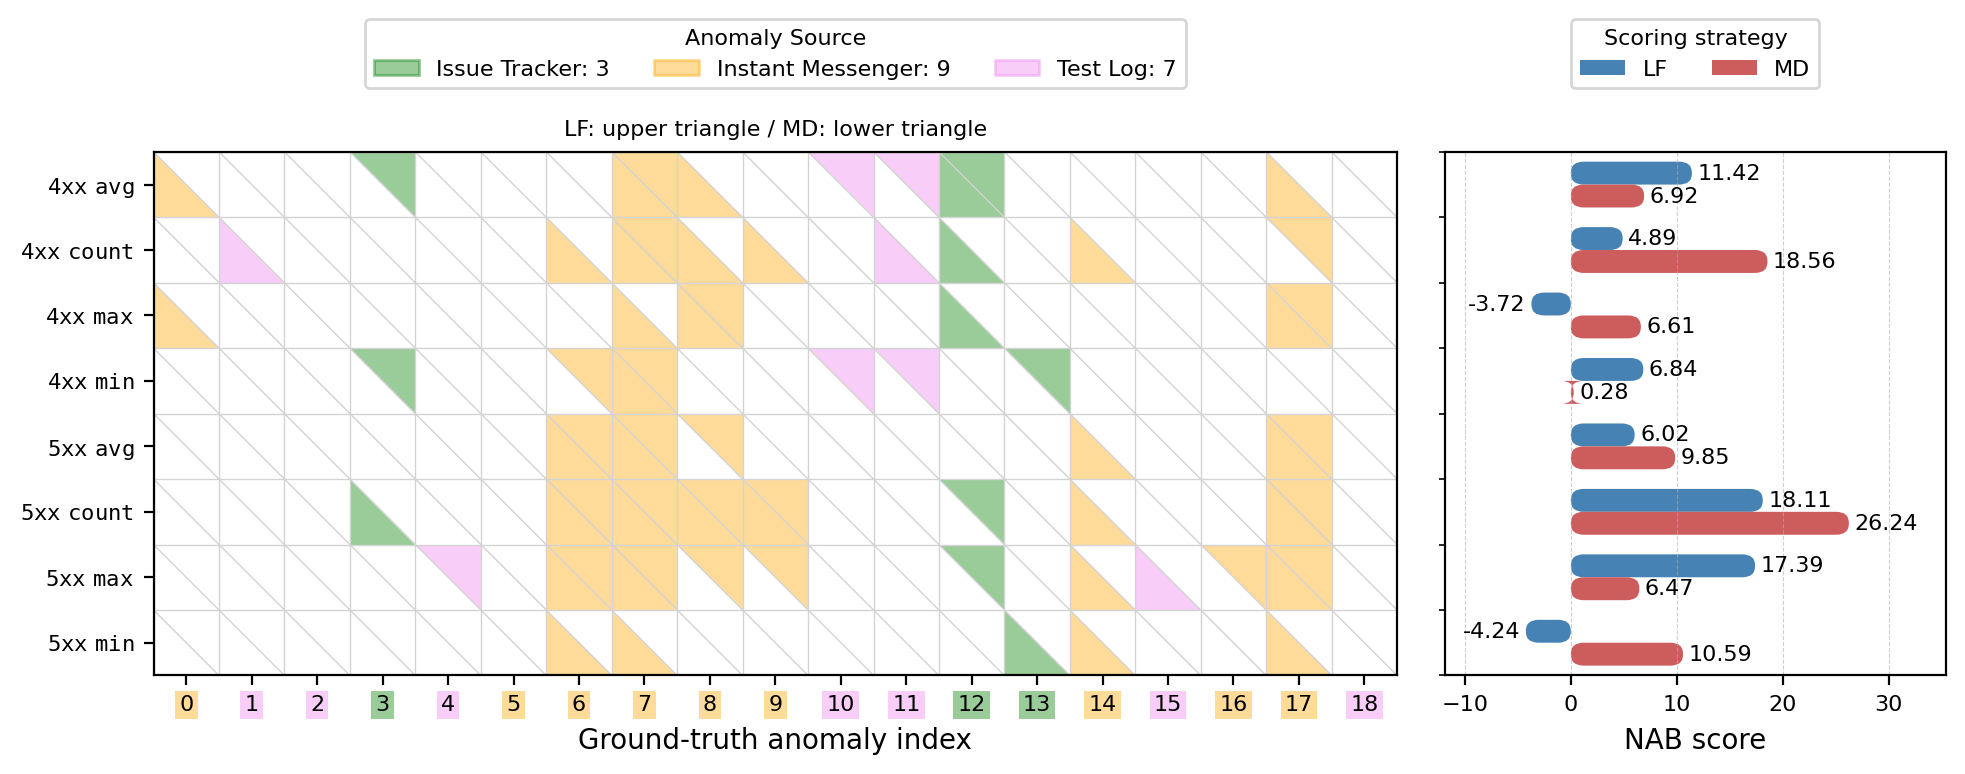
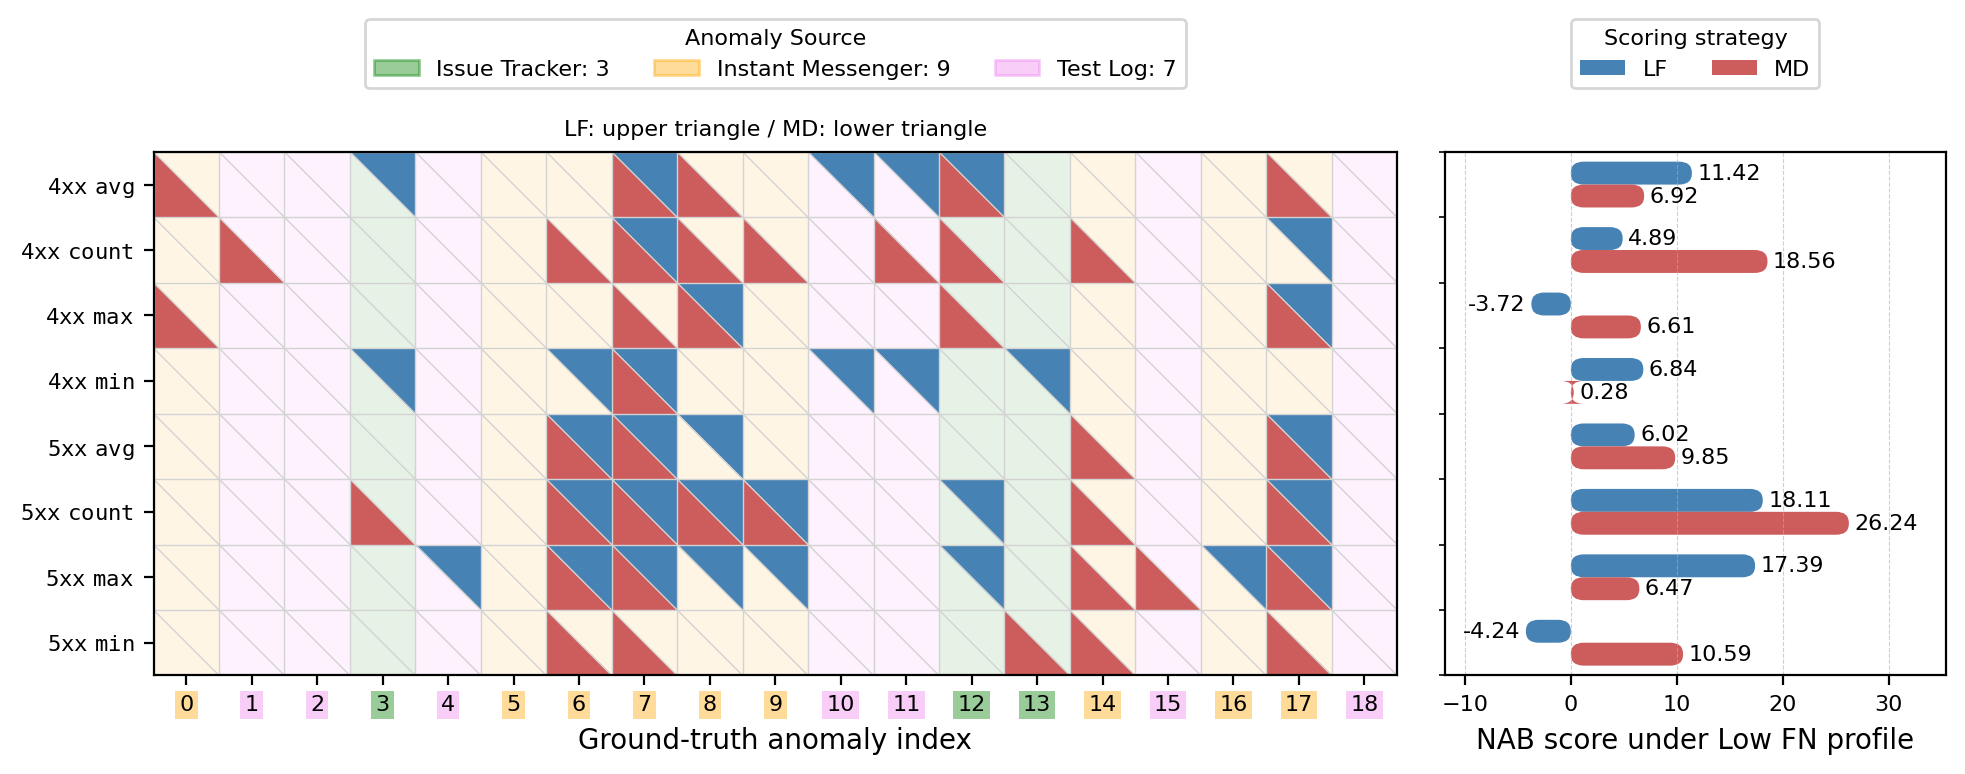
update slurm scripts

Changed region(s): [[0.0621, 0.186, 0.683, 0.8682], [0.745, 0.9302, 0.9934, 0.9922]]

diff --git a/src/analysis_results.py b/src/analysis_results.py
@@ -27,7 +27,7 @@ SCORING_STRATEGY_DISPLAY_NAME_MAP = {
 
 NAB_PROFILE_DISPLAY_NAME_MAP = {
     'standard': 'Standard',
-    'reward_fn': 'Reward FN',
+    'reward_fn': 'Low FN',
 }
 
 # Hue (in colorsys HLS space, [0, 1]) assigned to each model family's color
@@ -1016,6 +1016,16 @@ def _detected_group_color(detection_counters, anomaly_id, undetected_color):
     return np.array(undetected_color)
 
 
+def _is_anomaly_detected(detection_counters, anomaly_id):
+    return any(anomaly_id in detection_counters.get(group_key, []) for group_key in ANOMALY_GROUP_ID_KEYS)
+
+
+def _blended_group_background(group_key, undetected_color):
+    group_color = to_rgb(ANOMALY_GROUP_COLOR_MAP[group_key])
+    return np.array(group_color) * ANOMALY_GROUP_OPACITY + \
+           np.array(undetected_color) * (1 - ANOMALY_GROUP_OPACITY)
+
+
 def plot_table_of_detected_anomalies(
         optimal_hyperparameters_df, results_dir, sliding_window, nab_profile,
         is_one_column_figure=False,
@@ -1291,35 +1301,49 @@ def plot_nab_score_of_optimal_configuration(
 
 
 def plot_table_and_nab_score_together(
-        optimal_hyperparameters_df, results_dir, sliding_window, nab_profile,
+        optimal_hyperparameters_df, results_dir, sliding_window, nab_profiles,
         is_one_column_figure=False,
 ):
     scoring_strategies = ['likelihood', 'mahalanobis']
-    normalized_column = f'{nab_profile}_normalized'
+
+    # Detected cells/hyperparameters are selected using the first profile; every
+    # profile in nab_profiles then gets its own bar-chart panel, each reporting
+    # that profile's own score for this same selected configuration
+    selection_profile = nab_profiles[0]
+    selection_normalized_column = f'{selection_profile}_normalized'
 
     profile_df = optimal_hyperparameters_df[
         (optimal_hyperparameters_df['sliding_window'] == sliding_window) &
-        (optimal_hyperparameters_df['nab_profile'] == nab_profile)
+        (optimal_hyperparameters_df['nab_profile'] == selection_profile)
     ]
 
     subsets = sorted(set(zip(profile_df['http_code'], profile_df['aggregation'])))
     undetected_color = to_rgb(UNDETECTED_CELL_COLOR)
     row_labels = [f'${text_subset_wrapper(hc, agg)}$' for hc, agg in subsets]
 
-    # scores[strategy][row_idx], indexed the same way as the table's rows so both
-    # panels are matched by subset
-    scores = {strategy: np.full(len(subsets), np.nan) for strategy in scoring_strategies}
+    # scores[profile][strategy][row_idx], indexed the same way as the table's
+    # rows so every panel is matched by subset
+    scores = {
+        profile: {strategy: np.full(len(subsets), np.nan) for strategy in scoring_strategies}
+        for profile in nab_profiles
+    }
 
+    n_bar_panels = len(nab_profiles)
     figure_width = ONE_COLUMN_FIGURE_WIDTH if is_one_column_figure else TWO_COLUMN_FIGURE_WIDTH
-    fig, (ax_table, ax_bars) = plt.subplots(
-        1, 2, sharey=True,
+    fig, axes = plt.subplots(
+        1, 1 + n_bar_panels, sharey=True,
         figsize=(figure_width, DETECTED_ANOMALIES_TABLE_ROW_HEIGHT * len(subsets) + 1),
-        gridspec_kw={'width_ratios': [NUM_TESTING_ANOMALIES, 6], 'wspace': 0.05},
+        gridspec_kw={'width_ratios': [NUM_TESTING_ANOMALIES] + [6] * n_bar_panels, 'wspace': 0.05},
     )
+    ax_table, *ax_bars_list = axes
 
     # Ground truth is fixed across subsets/strategies, so the anomaly index -> group
-    # mapping used for the column label backgrounds only needs to be captured once
+    # mapping can be captured once from any row up front, before the cells are drawn
     ground_truth_group_by_anomaly_id = {}
+    first_detection_counters = ast.literal_eval(profile_df.iloc[0]['detection_counters'])
+    for group_key, gt_key in GROUND_TRUTH_ID_KEY_MAP.items():
+        for anomaly_id in first_detection_counters.get(gt_key, []):
+            ground_truth_group_by_anomaly_id[anomaly_id] = group_key
 
     for row_idx, (http_code, agg) in enumerate(subsets):
         subset_rows = profile_df[
@@ -1332,30 +1356,37 @@ def plot_table_and_nab_score_together(
             if strategy_rows.empty:
                 continue
 
-            # Optimal imputation/score for this subset/strategy is the one whose
-            # selected hyperparameters score highest on the profile's normalized
+            # Optimal imputation/hyperparameters for this subset/strategy are the
+            # ones that score highest on the selection profile's normalized
             # metric, considering every imputation_strategy present in strategy_rows
-            optimal_row = strategy_rows.loc[strategy_rows[normalized_column].idxmax()]
+            optimal_row = strategy_rows.loc[strategy_rows[selection_normalized_column].idxmax()]
             strategy_display_name = SCORING_STRATEGY_DISPLAY_NAME_MAP.get(strategy, strategy)
             imputation_by_strategy[strategy_display_name] = optimal_row['imputation_strategy']
-            scores[strategy][row_idx] = optimal_row[normalized_column]
+            for profile in nab_profiles:
+                scores[profile][strategy][row_idx] = optimal_row[f'{profile}_normalized']
             detection_counters = ast.literal_eval(optimal_row['detection_counters'])
 
-            if not ground_truth_group_by_anomaly_id:
-                for group_key, gt_key in GROUND_TRUTH_ID_KEY_MAP.items():
-                    for anomaly_id in detection_counters.get(gt_key, []):
-                        ground_truth_group_by_anomaly_id[anomaly_id] = group_key
-
+            # Triangle fill marks whether this strategy (under its own optimal
+            # hyperparameters) detected the anomaly: raw scoring-strategy color
+            # (matching the bar chart) when detected, raw anomaly-source color at
+            # low opacity when not
             triangle = SCORING_STRATEGY_TRIANGLE_MAP[strategy]
+            strategy_color = SCORING_STRATEGY_COLOR_MAP.get(strategy, 'gray')
             for anomaly_id in range(NUM_TESTING_ANOMALIES):
-                cell_color = _detected_group_color(detection_counters, anomaly_id, undetected_color)
+                if _is_anomaly_detected(detection_counters, anomaly_id):
+                    facecolor, alpha = strategy_color, 1
+                else:
+                    group_key = ground_truth_group_by_anomaly_id.get(anomaly_id)
+                    facecolor = ANOMALY_GROUP_COLOR_MAP.get(group_key, UNDETECTED_CELL_COLOR)
+                    alpha = ANOMALY_GROUP_OPACITY*0.25
+
                 x, y = anomaly_id, row_idx
                 if triangle == 'upper':
                     vertices = [(x - 0.5, y - 0.5), (x + 0.5, y - 0.5), (x + 0.5, y + 0.5)]
                 else:
                     vertices = [(x - 0.5, y - 0.5), (x - 0.5, y + 0.5), (x + 0.5, y + 0.5)]
-                ax_table.add_patch(plt.Polygon(vertices, closed=True, facecolor=cell_color,
-                                               edgecolor='none'))
+                ax_table.add_patch(plt.Polygon(vertices, closed=True, facecolor=facecolor,
+                                               alpha=alpha, edgecolor='none', zorder=1))
 
         if imputation_by_strategy:
             assert len(set(imputation_by_strategy.values())) == 1, (
@@ -1378,9 +1409,7 @@ def plot_table_and_nab_score_together(
         group_key = ground_truth_group_by_anomaly_id.get(anomaly_id)
         if group_key is None:
             continue
-        group_color = to_rgb(ANOMALY_GROUP_COLOR_MAP[group_key])
-        blended_color = np.array(group_color) * ANOMALY_GROUP_OPACITY + \
-                        np.array(undetected_color) * (1 - ANOMALY_GROUP_OPACITY)
+        blended_color = _blended_group_background(group_key, undetected_color)
         tick_label.set_bbox(dict(facecolor=blended_color, edgecolor='none', pad=1.5))
     ax_table.set_yticks(range(len(subsets)))
     ax_table.set_yticklabels(row_labels, fontsize=TICK_FONT_SIZE)
@@ -1397,41 +1426,47 @@ def plot_table_and_nab_score_together(
     )
     ax_table.set_title(strategy_triangle_note, fontsize=TICK_FONT_SIZE)
 
-    # Bar chart is rotated to horizontal bars so each subset's score lines up
-    # with that subset's row in the table
+    # Each bar chart panel is rotated to horizontal bars so a subset's score
+    # lines up with that subset's row in the table; one panel per nab_profile
     n_strategies = len(scoring_strategies)
     bar_height = 0.7 / n_strategies
     y = np.arange(len(subsets))
 
-    all_scores = np.concatenate(list(scores.values())) if subsets else np.array([0])
-    valid_scores = all_scores[~np.isnan(all_scores)]
-    min_score = min(valid_scores.min(), 0) if len(valid_scores) else 0
-    max_score = valid_scores.max() if len(valid_scores) else 1
-    score_range = max_score - min_score
-    xlim_min = (min_score - 0.25 * score_range) if min_score < 0 else min_score
-    ax_bars.set_xlim(xlim_min, max_score + 0.3 * score_range)
+    for ax_bars, profile in zip(ax_bars_list, nab_profiles):
+        profile_scores = scores[profile]
 
-    for i, strategy in enumerate(scoring_strategies):
-        offset = (i - n_strategies / 2 + 0.5) * bar_height
-        strategy_display_name = SCORING_STRATEGY_DISPLAY_NAME_MAP.get(strategy, strategy)
-        bars = ax_bars.barh(y + offset, scores[strategy], bar_height,
-                            color=SCORING_STRATEGY_COLOR_MAP.get(strategy, 'gray'),
-                            label=strategy_display_name)
-        bar_value_labels = [
-            '' if np.isnan(score) else f'{score:.2f}'
-            for score in scores[strategy]
-        ]
-        ax_bars.bar_label(bars, labels=bar_value_labels, fontsize=TICK_FONT_SIZE, padding=2)
-        _round_bar_corners(bars)
+        all_scores = np.concatenate(list(profile_scores.values())) if subsets else np.array([0])
+        valid_scores = all_scores[~np.isnan(all_scores)]
+        min_score = min(valid_scores.min(), 0) if len(valid_scores) else 0
+        max_score = valid_scores.max() if len(valid_scores) else 1
+        score_range = max_score - min_score
+        xlim_min = (min_score - 0.25 * score_range) if min_score < 0 else min_score
+        ax_bars.set_xlim(xlim_min, max_score + 0.3 * score_range)
 
-    ax_bars.set_xlabel('NAB score', fontsize=TITLE_FONT_SIZE)
-    ax_bars.tick_params(axis='x', labelsize=TICK_FONT_SIZE)
-    ax_bars.tick_params(axis='y', labelleft=False, length=0)
-    ax_bars.grid(axis='x', linestyle='--', linewidth=0.4, alpha=0.6)
-    # ax_bars.set_title('NAB score', fontsize=TITLE_FONT_SIZE)
+        for i, strategy in enumerate(scoring_strategies):
+            offset = (i - n_strategies / 2 + 0.5) * bar_height
+            strategy_display_name = SCORING_STRATEGY_DISPLAY_NAME_MAP.get(strategy, strategy)
+            bars = ax_bars.barh(y + offset, profile_scores[strategy], bar_height,
+                                color=SCORING_STRATEGY_COLOR_MAP.get(strategy, 'gray'),
+                                label=strategy_display_name)
+            bar_value_labels = [
+                '' if np.isnan(score) else f'{score:.2f}'
+                for score in profile_scores[strategy]
+            ]
+            ax_bars.bar_label(bars, labels=bar_value_labels, fontsize=TICK_FONT_SIZE, padding=2)
+            _round_bar_corners(bars)
+
+        ax_bars.set_xlabel(
+            f'NAB score\nunder {NAB_PROFILE_DISPLAY_NAME_MAP.get(profile, profile)} profile',
+            fontsize=TITLE_FONT_SIZE
+        )
+        ax_bars.tick_params(axis='x', labelsize=TICK_FONT_SIZE)
+        ax_bars.tick_params(axis='y', labelleft=False, length=0)
+        ax_bars.grid(axis='x', linestyle='--', linewidth=0.4, alpha=0.6)
 
     # Each panel gets its own legend, anchored above that panel's own title
-    # rather than sharing one figure-wide legend
+    # rather than sharing one figure-wide legend; the scoring-strategy legend
+    # only needs to appear once, above the first bar panel
     anomaly_source_handles = [
         plt.Rectangle((0, 0), 1, 1, color=color, alpha=ANOMALY_GROUP_OPACITY,
                       label=ANOMALY_GROUP_DISPLAY_NAME_MAP[key])
@@ -1443,7 +1478,7 @@ def plot_table_and_nab_score_together(
         loc='lower center', bbox_to_anchor=(0.5, 1.1),
         ncol=len(anomaly_source_handles), frameon=True,
     )
-    ax_bars.legend(
+    ax_bars_list[0].legend(
         title='Scoring strategy',
         fontsize=LEGEND_FONT_SIZE, title_fontsize=LEGEND_FONT_SIZE,
         loc='lower center', bbox_to_anchor=(0.5, 1.1),
@@ -1453,21 +1488,23 @@ def plot_table_and_nab_score_together(
     fig.tight_layout()
 
     # set_aspect('equal') on ax_table shrinks its box to keep cells square, so
-    # after layout it is usually shorter/narrower than ax_bars' allocated slot;
-    # pull ax_bars flush against ax_table's actual right edge and match its
-    # height so both panels line up row-for-row with minimal gap between them
+    # after layout it is usually narrower than its allocated slot, leaving a gap
+    # before the bar panels; shift every bar panel left by that same gap (so
+    # their relative widths/spacing are preserved) and match ax_table's height
+    # so all panels line up row-for-row with minimal gap between them
     fig.canvas.draw()
     table_bbox = ax_table.get_position()
-    bars_bbox = ax_bars.get_position()
     panel_gap = 0.02
-    new_bars_x0 = table_bbox.x1 + panel_gap
-    new_bars_width = bars_bbox.x1 - new_bars_x0
-    ax_bars.set_position([new_bars_x0, table_bbox.y0, new_bars_width, table_bbox.height])
+    first_bar_bbox = ax_bars_list[0].get_position()
+    shift = first_bar_bbox.x0 - (table_bbox.x1 + panel_gap)
+    for ax_bars in ax_bars_list:
+        bbox = ax_bars.get_position()
+        ax_bars.set_position([bbox.x0 - shift, table_bbox.y0, bbox.width, table_bbox.height])
 
     merged_results_dir = os.path.join(results_dir, 'merged_results')
     os.makedirs(merged_results_dir, exist_ok=True)
     out_path = os.path.join(
-        merged_results_dir, f'table_and_nab_score_window_{sliding_window}_{nab_profile}.png'
+        merged_results_dir, f'table_and_nab_score_window_{sliding_window}_{"_".join(nab_profiles)}.png'
     )
     fig.savefig(out_path, dpi=200, bbox_inches='tight')
     plt.close(fig)
@@ -1598,11 +1635,13 @@ def main(cfg: DictConfig):
         nab_profile,
         is_one_column_figure=True
     )
+
+    nab_profiles=['reward_fn']
     plot_table_and_nab_score_together(
         most_optimal_hyperparameters_df,
         results_dir,
         sliding_window,
-        nab_profile,
+        nab_profiles,
         is_one_column_figure=False
     )
 
